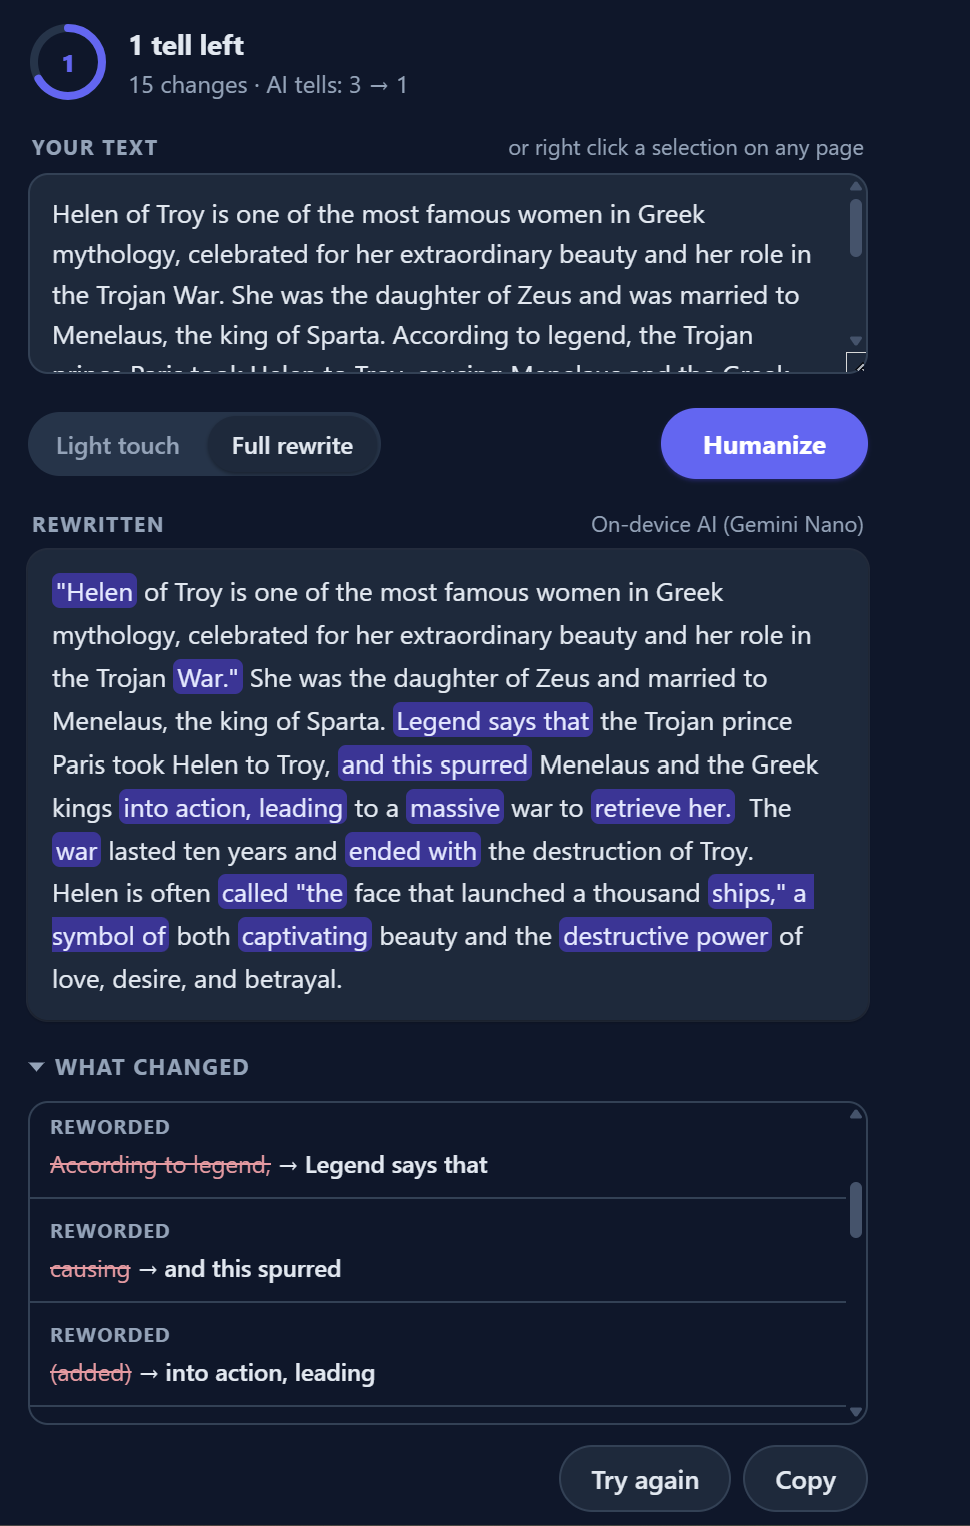
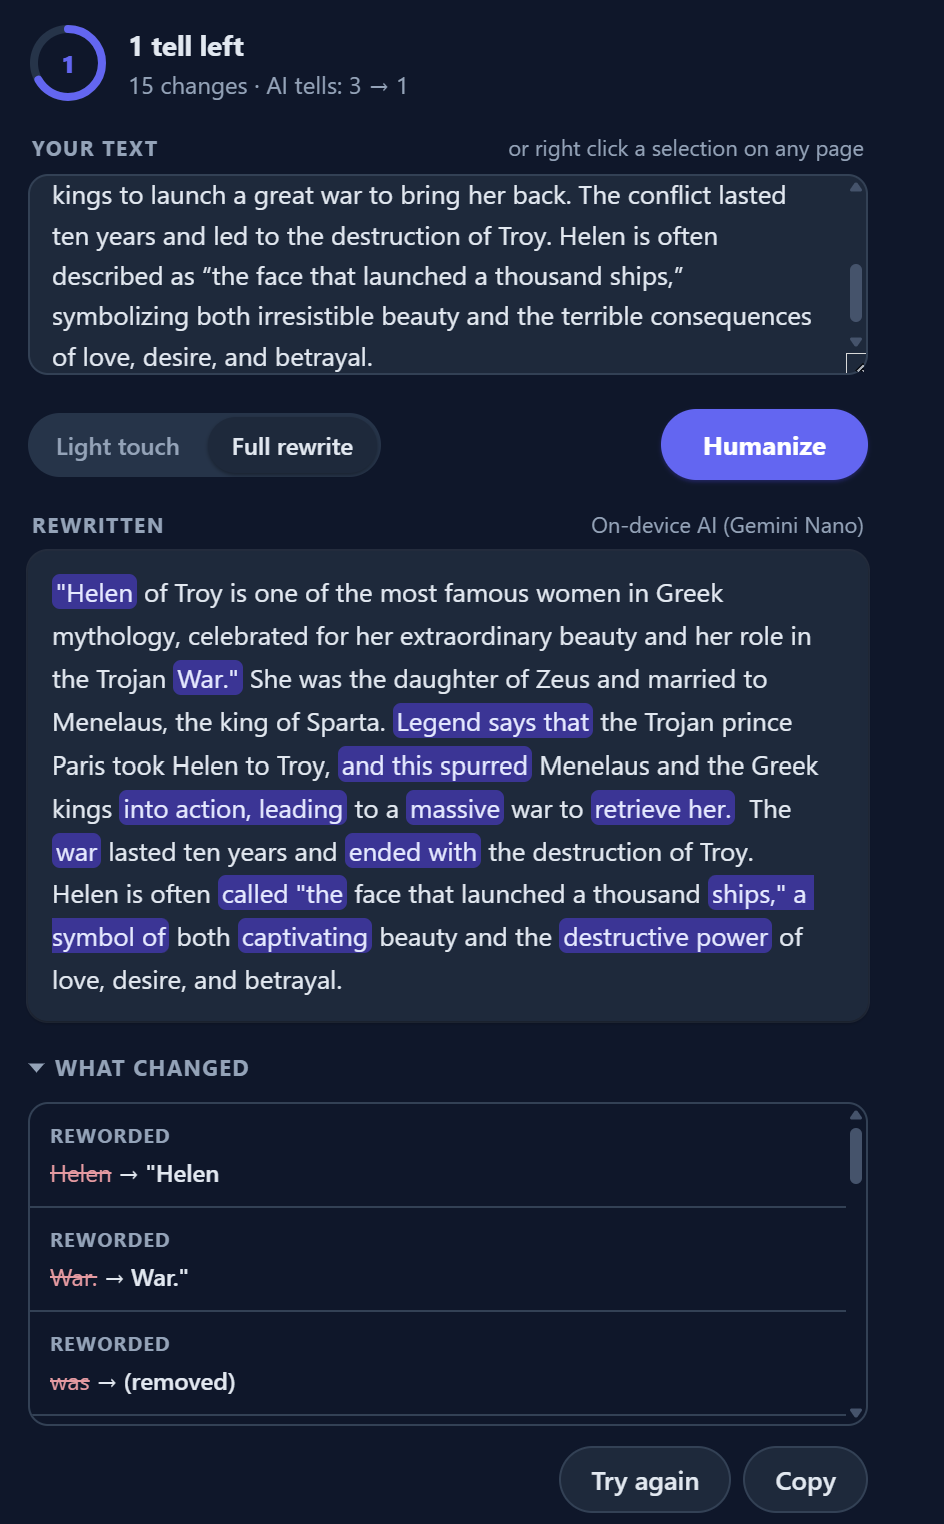
fix: the added-quote rule was too blunt to catch the real case
The first attempt bailed whenever the original quoted anything, and the text
that exposed the bug does quote something near the end. So the rule looked
right, passed its tests, and did nothing on the case it was written for.

Narrowed to the one thing that can be called safely when real quotations are
present: a rewrite that opens with a quotation mark where the original does not
is the model handing back the text you asked for, quoted. That pair goes and no
others. Tested with the actual Nano input and output, asserting the quotation
the original really made survives with exactly its own two marks.

diff --git a/tests/engine.test.ts b/tests/engine.test.ts
@@ -281,3 +281,39 @@ test('curly quotes the model invented go too', async () => {
   const res = await humanize(original, { intensity: 'full' }, { providers: [curly] });
   expect(res.rewritten).toBe('The factory opened in 1994 under Martinez.');
 });
+
+test('a model quoting its own answer is undone even when the original quotes something', async () => {
+  // The real Gemini Nano failure, with the text that produced it. The original
+  // quotes a phrase near the end, which is why a blanket rule cannot apply: the
+  // model wrapped its opening sentence in quotes as well, and only that pair is
+  // invention.
+  const original =
+    'Helen of Troy is one of the most famous women in Greek mythology, celebrated for her ' +
+    'extraordinary beauty and her role in the Trojan War. She was the daughter of Zeus and was ' +
+    'married to Menelaus, the king of Sparta. Helen is often described as “the face that ' +
+    'launched a thousand ships,” symbolizing both irresistible beauty and the terrible ' +
+    'consequences of love, desire, and betrayal.';
+  const nanoLike = new FakeProvider(
+    () =>
+      '"Helen of Troy is one of the most famous women in Greek mythology, celebrated for her ' +
+      'extraordinary beauty and her role in the Trojan War." She was the daughter of Zeus and ' +
+      'married to Menelaus, the king of Sparta. Helen is often called "the face that launched a ' +
+      'thousand ships," a symbol of both captivating beauty and the destructive power of love, ' +
+      'desire, and betrayal.',
+  );
+  const res = await humanize(original, { intensity: 'full' }, { providers: [nanoLike] });
+
+  expect(res.rewritten.startsWith('Helen of Troy')).toBe(true);
+  expect(res.rewritten).not.toContain('Trojan War."');
+  // The quotation the original actually made survives, marks and all.
+  expect(res.rewritten).toContain('"the face that launched a thousand ships,"');
+  // Exactly one pair left, which is the one pair the original had.
+  expect((res.rewritten.match(/"/g) ?? []).length).toBe(2);
+});
+
+test('a quotation the original opens with is not mistaken for invention', async () => {
+  const original = '"We grew fast," she said, and the numbers back her up.';
+  const keeper = new FakeProvider(t => t.replace('back her up', 'agree'));
+  const res = await humanize(original, { intensity: 'full' }, { providers: [keeper] });
+  expect(res.rewritten).toBe('"We grew fast," she said, and the numbers agree.');
+});

diff --git a/src/engine/index.ts b/src/engine/index.ts
@@ -123,8 +123,21 @@ const DOUBLE_QUOTE = /["“”]/;
  * something, leave every mark alone rather than guess which are which.
  */
 export function stripAddedQuotes(out: string, original: string): string {
-  if (DOUBLE_QUOTE.test(original)) return out;
-  return out.replace(/["“”]/g, '');
+  // Nothing quoted anything, so every mark in the rewrite is invention.
+  if (!DOUBLE_QUOTE.test(original)) return out.replace(/["“”]/g, '');
+
+  // The original does quote something, so most marks are real and guessing which
+  // is which would destroy meaning. One case is still safe to call: a rewrite
+  // that opens with a quotation mark when the original does not is the model
+  // handing back "the text you asked for", quoted. Drop that pair and no others.
+  const opensQuoted = (text: string): boolean => DOUBLE_QUOTE.test(text.trimStart().charAt(0));
+  if (opensQuoted(original) || !opensQuoted(out)) return out;
+
+  const open = out.search(/["“”]/);
+  const rest = out.slice(open + 1).search(/["“”]/);
+  if (rest === -1) return out.slice(0, open) + out.slice(open + 1); // unbalanced; drop the stray
+  const close = open + 1 + rest;
+  return out.slice(0, open) + out.slice(open + 1, close) + out.slice(close + 1);
 }
 
 /** Models wrap output despite instructions; peel fences, preambles, and quotes the original did not have. */

diff --git a/README.md b/README.md
@@ -2,7 +2,7 @@
 
 [![CI](https://github.com/Joel-Wwalker/second-draft/actions/workflows/ci.yml/badge.svg)](https://github.com/Joel-Wwalker/second-draft/actions/workflows/ci.yml)
 [![License: AGPL v3](https://img.shields.io/badge/license-AGPL--3.0-blue)](LICENSE)
-[![Tests](https://img.shields.io/badge/tests-203%20unit%20%2B%208%20e2e-brightgreen)](tests)
+[![Tests](https://img.shields.io/badge/tests-205%20unit%20%2B%208%20e2e-brightgreen)](tests)
 [![Runtime dependencies](https://img.shields.io/badge/runtime%20dependencies-0-brightgreen)](package.json)
 
 A Chrome extension that rewrites AI-sounding text so it reads like a person
@@ -90,7 +90,7 @@ dependencies. The `.docx` reader is a ZIP parser written against the platform's
 
 ## Testing
 
-203 unit tests and 8 Playwright tests that drive the built extension in a real
+205 unit tests and 8 Playwright tests that drive the built extension in a real
 browser. CI runs both on every push.
 
 Guards are verified by mutation: break the guard, confirm the named test fails,
